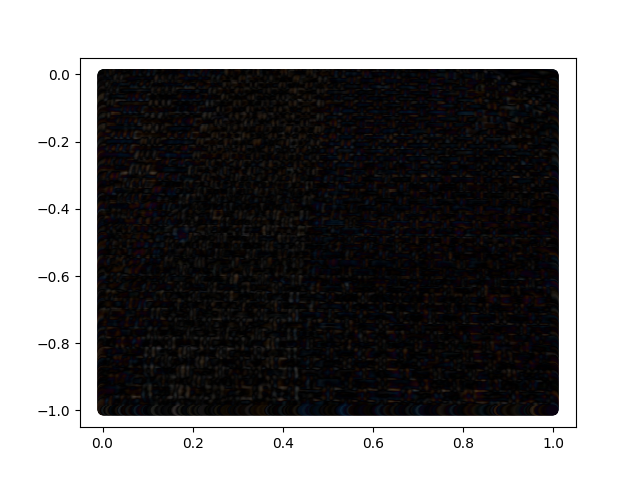
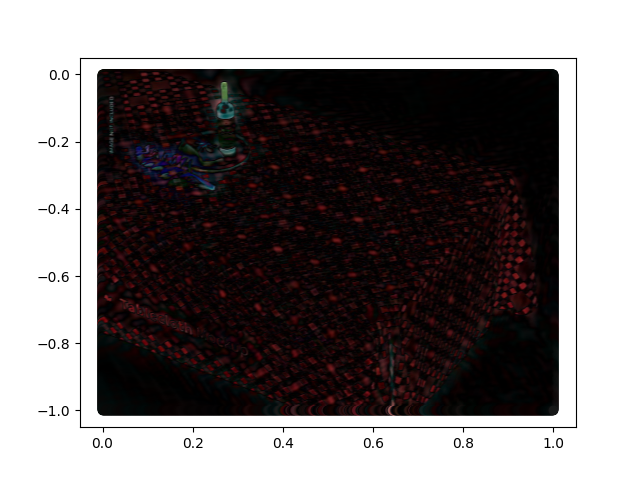
Updates

diff --git a/models/PeriodicGaussians2D.py b/models/PeriodicGaussians2D.py
@@ -115,7 +115,7 @@ class PeriodicGaussians2D(torch.nn.Module):
                        num_to_add=1):
         #plt.scatter(x.cpu().numpy()[:,1], x.cpu().numpy()[:,0],c=y.cpu().numpy())
         #plt.show()
-        ls_model = LombScargle2D(x, y-y.mean(dim=0), n_terms=1, device=self.device)
+        ls_model = LombScargle2D(x, y, n_terms=1, device=self.device)
         # Randomize set of wavelengths and freqs to fit in correct range
         freqs = 0.1+torch.sort(freq_decay*64*torch.rand([n_freqs], device=self.device, dtype=torch.float32)).values
         
@@ -125,16 +125,17 @@ class PeriodicGaussians2D(torch.nn.Module):
         n_extracted_peaks = ls_model.find_peaks(top_n=num_to_add, 
                                                 min_influence=min_influence)
         self.ls_plot = ls_model.plot_power(return_img=True)
-        
+        self.ls_power = ls_model.power
         all_colors = ls_model.get_PCA_color()[None,:].repeat(n_extracted_peaks, 1) / n_extracted_peaks
 
         all_frequencies = ls_model.get_peak_freqs()
         coeffs = ls_model.get_peak_coeffs()
 
-        means, vars = ls_model.get_peak_placement(torch.arange(0,n_extracted_peaks,1,dtype=torch.long,device=self.device))     
+        means, vars = ls_model.get_peak_placement(torch.arange(0,n_extracted_peaks,1,dtype=torch.long,device=self.device))
+        means = means*0 + 0.5  
         mats = torch.eye(2, device=self.device, dtype=torch.float32)[None,...].repeat(n_extracted_peaks, 1, 1)
-        mats[:,0,0] = vars[:,0]
-        mats[:,1,1] = vars[:,1]
+        #mats[:,0,0] = 1 / vars[:,0]
+        #mats[:,1,1] = 1 / vars[:,1]
 
         tensor_dict = {
             "gaussian_means": means, 
@@ -217,6 +218,7 @@ class PeriodicGaussians2D(torch.nn.Module):
         # [N, n_gaussians, 2, 1] x [1, n_gaussians, 2, 2] x [N, n_gaussians, 2, 1]
         #transformed_x = rel_x[...,None].mT @ cov[None,...] @ rel_x[...,None]
         transformed_x = ((rel_x[...,None].mT @ cov[None,...])**10).sum(dim=-1, keepdim=True)
+        #transformed_x = rel_x[...,None].mT @ cov[None,...] @ cov[None,...].mT @ rel_x[...,None]
         # [N, n_gaussians, 1, 1]
         gauss_vals = torch.exp(-(transformed_x[:,:,0])/2)
         

diff --git a/train.py b/train.py
@@ -66,7 +66,7 @@ if __name__ == '__main__':
     #plt.show()
 
     x = training_img_positions
-    y = training_img_colors - 0.5
+    y = training_img_colors 
     
     num_params = []
 
@@ -91,11 +91,11 @@ if __name__ == '__main__':
                 g = [torch.linspace(xmin[i], xmax[i], res[i], device=model.device) for i in range(xmin.shape[0])]
                 g = torch.stack(torch.meshgrid(g, indexing='ij'), dim=-1).flatten(0, -2)
                 img = model(g).reshape(res+[model.n_channels])
-                img = to_img(img+0.5)
+                img = to_img(img)
                 writer.add_image('reconstruction', img, i, dataformats='HWC')
                 
                 if("Siren" not in model.__class__.__name__):
-                    wave_img = to_img(model.vis_primitives(x)+0.5)                
+                    wave_img = to_img(model.vis_primitives(x))                
                     writer.add_image('primitives', wave_img, i, dataformats='HWC')
 
         # adding primitives
@@ -111,11 +111,17 @@ if __name__ == '__main__':
                 model.prune_primitives(1./500.)
                 n_extracted_peaks = model.add_primitives(
                                     x[mask],
-                                    y[mask],
+                                    residuals,
                                     n_freqs = 180, 
-                                    freq_decay=1.005**((i//iters_per_primitive)*primitives_per_update), 
+                                    freq_decay=1.01**((i//iters_per_primitive)*primitives_per_update), 
                                     min_influence=1./500.,
                                     num_to_add = primitives_per_update)
+                writer.add_scalar("Max LS power", 
+                                      model.ls_power.max(), 
+                                      i)
+                writer.add_scalar("Min LS power", 
+                                      model.ls_power.min(), 
+                                      i)
                 if(n_extracted_peaks == 0 and tries == 0):
                     print(f" Stopping wave detection early, no peaks found in {max_tries} iterations.")
                     break

diff --git a/models/LombScargle2D.py b/models/LombScargle2D.py
@@ -194,8 +194,8 @@ class LombScargle2D():
 
     def get_peak_placement(self, idx):
         selected_idx = self.peak_idx[idx]
-        x_freq = self.modeled_frequencies[selected_idx[:,0]]
-        y_freq = self.modeled_frequencies[selected_idx[:,1]]
+        x_freq = self.modeled_frequencies[selected_idx[:,1]]
+        y_freq = self.modeled_frequencies[selected_idx[:,0]]
 
         x_in = self.x[:,0:1]*2*torch.pi*x_freq[None,...]
         y_in = self.x[:,1:2]*2*torch.pi*y_freq[None,...]
@@ -208,22 +208,30 @@ class LombScargle2D():
                 coeffs[None,:,4]
         
         
+        show_peak = 1
+        #plt.scatter(self.x[:,1].cpu().numpy(), -self.x[:,0].cpu().numpy(),c=pred[:,show_peak].cpu().numpy(), cmap="gray")
+        #plt.show()
 
         pred = pred[...,None] @ self.PCA_color[None,None,...]
-        err = (pred-self.y[:,None,:])**2
+        err = pred-self.y[:,None,:]
         err = err.norm(dim=-1)
-        err_max = err.max(dim=0).values
-        err /= err_max[None,...]
-        alignment = 1-err
-        #plt.scatter(self.x[:,1].cpu().numpy(), self.x[:,0].cpu().numpy(),c=alignment[:,1].cpu().numpy(), cmap="gray")
+        #plt.scatter(self.x[:,1].cpu().numpy(), -self.x[:,0].cpu().numpy(),c=err[:,show_peak].cpu().numpy(), cmap="coolwarm")
         #plt.show()
-        avg_pos = (self.x.T @ alignment)/self.x.shape[0]
+        #err -= err.min(dim=0).values[None,...]
+        #err /= err.max(dim=0).values[None,...]
+        
+        #print(self.x.shape)
+        #print(err.shape)
+        avg_pos = (self.x.T @ err**4)/(err**4).sum(dim=0, keepdim=True)
         avg_pos = avg_pos.mT
 
         dists = torch.abs(self.x[:,None,:] - avg_pos[None,...])
-        dists *= alignment[...,None]
-        dists = dists.mean(dim=0)
+        dists = (dists.permute(1,2,0) @ (1-err).mT[...,None])[:,:,0] / (1-err).sum(dim=0, keepdim=True).mT
         
+        #plt.scatter(self.x[:,1].cpu().numpy(), -self.x[:,0].cpu().numpy(),c=self.y.cpu().numpy())
+        #plt.scatter(avg_pos[:,1].cpu().numpy(), -avg_pos[:,0].cpu().numpy(),color=[1.,0,0], alpha=1.)#, s=dists.norm(dim=1).cpu().numpy())
+        #plt.show()
+
         return avg_pos, dists
 
 

diff --git a/extract_periodogram.py b/extract_periodogram.py
@@ -11,12 +11,12 @@ if __name__ == "__main__":
 
     np.random.seed(0)
     torch.random.manual_seed(0)
-    n_points = 100000
+    n_points = 10000
 
     device = "cuda"
     
     # Load data
-    img = load_img("./data/synthetic.jpg")
+    img = load_img("./data/synthetic10.jpg")
     x,y = sample_img_points(img, n_points, plot=False)
     #x = np.load("./data/point_positions.npy")
     #y = np.load("./data/point_colors.npy")
@@ -40,12 +40,12 @@ if __name__ == "__main__":
         new_img = np.zeros_like(img)
 
         ls_model = LombScargle2D(x,y, n_terms=1, device=device)
-        freqs = torch.linspace(0.2, 20, 256)
+        freqs = torch.linspace(0.2, 24, 128)
         ls_model.fit(freqs)
         n_extracted = ls_model.find_peaks(top_n=4)
-        #ls_model.plot_power()
-        ls_model.get_peak_placement(torch.arange(0, n_extracted, 1, dtype=torch.long, device=device))
-        
+        ls_model.plot_power()
+        means, vars = ls_model.get_peak_placement(torch.arange(0, n_extracted, 1, dtype=torch.long, device=device))
+        print(f"Wave positions {means} {vars}")
         peak_coeff = ls_model.get_peak_coeffs()
         peak_freqs = ls_model.get_peak_freqs()
         peak_power = ls_model.get_peak_power()
@@ -63,7 +63,7 @@ if __name__ == "__main__":
             peak_coeff[0,i,3]*torch.sin(xm)*torch.sin(ym) + \
             peak_coeff[0,i,4]
         channels.append(chan)
-    rgb = torch.stack(channels, dim=-1) @ color.mT
+    rgb = torch.stack(channels, dim=-1) @ color.mT 
     rgb = rgb.reshape(img.shape[0], img.shape[1], rgb.shape[-1])
     plt.imshow(rgb.cpu().numpy())
     plt.show()

diff --git a/testbed.py b/testbed.py
@@ -312,4 +312,27 @@ def thing11():
           
      imageio.imwrite("./output/sines.gif", imgs)
 
-thing11()
+def thing12():
+     x = np.linspace(-5., 5., 128)
+     y = np.linspace(-5., 5., 128)
+     g = np.stack(np.meshgrid(y,x, indexing='ij'), axis=-1)
+
+     img = np.zeros([256, 256, 3])
+     img[0:128,128:256,0:2] = (0.5+0.5*np.sin(g[:,:,0]*0.1*2*np.pi)*np.cos(g[:,:,1]*0.2*2*np.pi))[:,:,None]
+     img[0:128,0:128,0:2] = (0.5+0.5*np.sin(g[:,:,0]*.6*2*np.pi)*np.cos(g[:,:,1]*0.3*2*np.pi))[:,:,None]
+     img[128:256,0:128,0:2] = (0.5+0.5*np.sin(g[:,:,0]*0.4*2*np.pi)*np.cos(g[:,:,1]*0.65*2*np.pi))[:,:,None]
+     img[128:256,128:256,0:2] = (0.5+0.5*np.sin(g[:,:,0]*1.0*2*np.pi)*np.cos(g[:,:,1]*0.3*2*np.pi))[:,:,None]
+
+     imageio.imwrite("synthetic10.jpg", (img*255).astype(np.uint8))
+
+def thing13():
+     x = np.linspace(-5., 5., 128)
+     y = np.linspace(-5., 5., 128)
+     g = np.stack(np.meshgrid(y,x, indexing='ij'), axis=-1)
+
+     img = np.zeros([256, 256, 3])
+     img[0:128,128:256,0:3] = (0.5+0.5*np.sin(g[:,:,0]*0.1*2*np.pi)*np.cos(g[:,:,1]*0.2*2*np.pi))[:,:,None]
+
+     imageio.imwrite("synthetic11.jpg", (img*255).astype(np.uint8))
+
+thing13()
